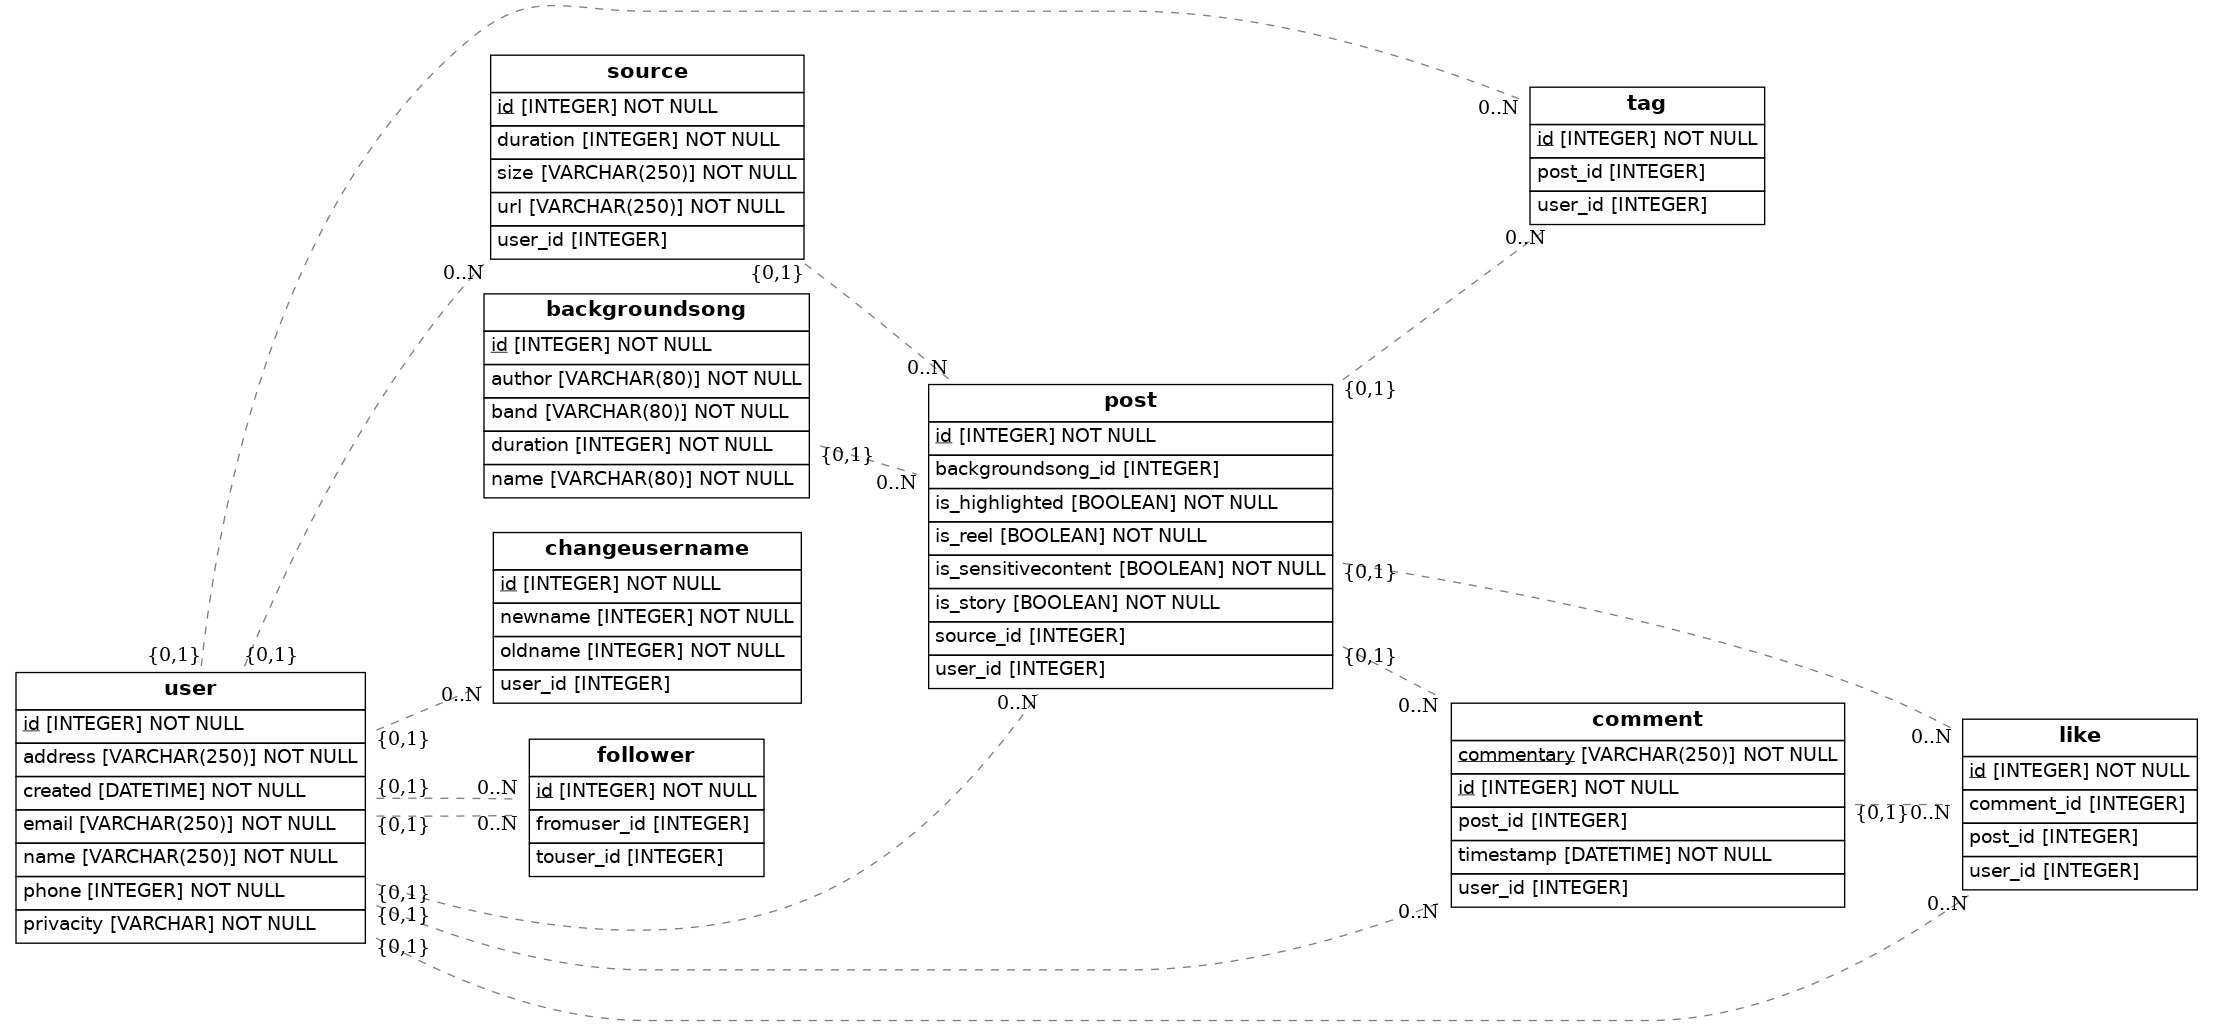
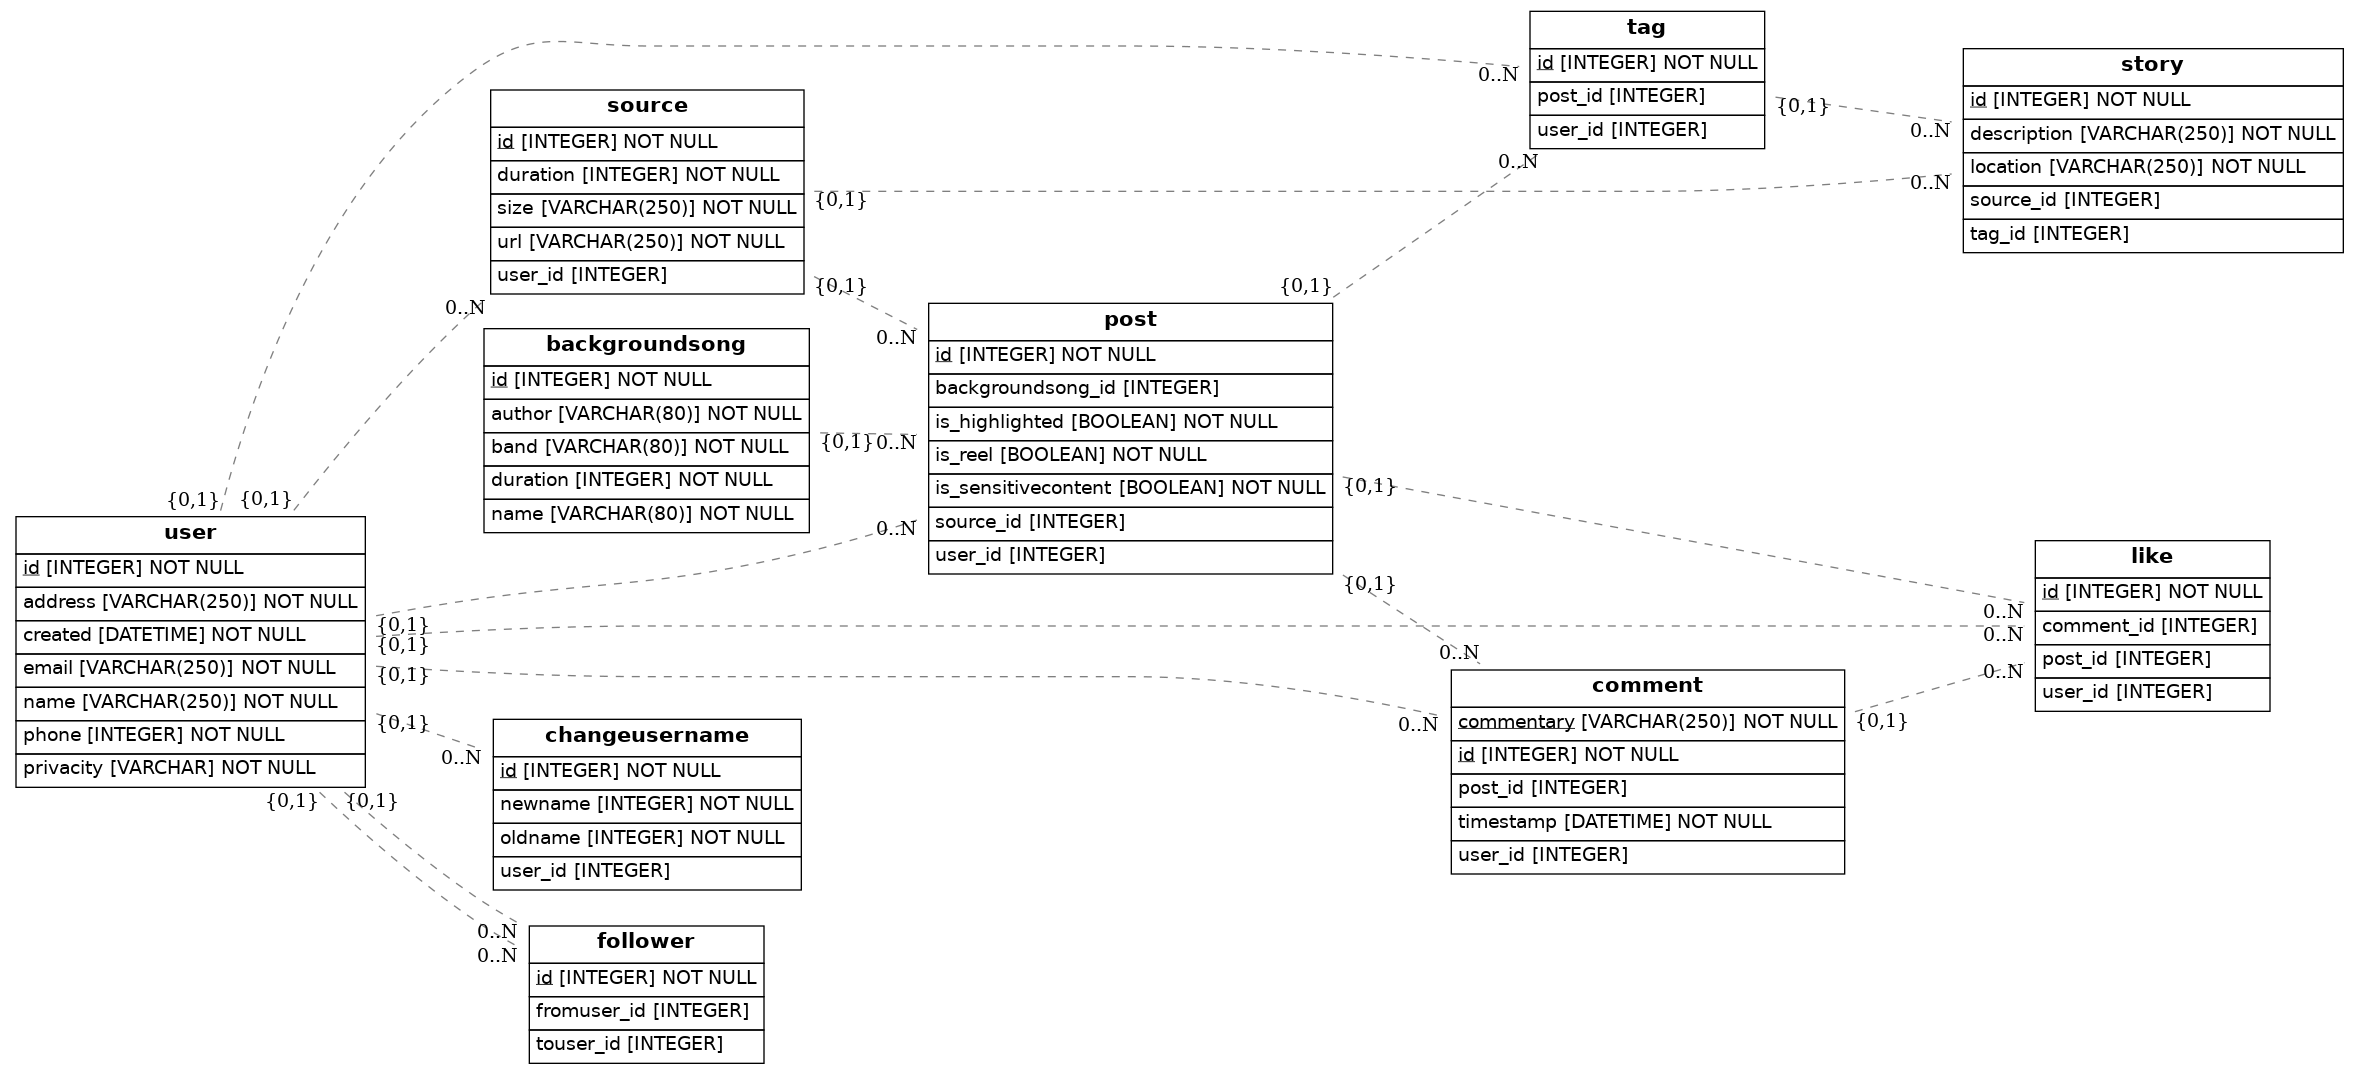
added story database

diff --git a/src/models.py b/src/models.py
@@ -26,7 +26,6 @@ class User(Base):
 class Post(Base):
     __tablename__ = 'post'        
     id = Column(Integer, primary_key=True)
-    is_story = Column(Boolean, nullable=False)
     is_reel = Column(Boolean,  nullable=False)
     is_sensitivecontent = Column(Boolean,  nullable=False)
     is_highlighted = Column(Boolean,  nullable=False)
@@ -45,7 +44,16 @@ class Source(Base):
     size = Column(String(250),nullable=False)
     duration = Column(Integer,nullable=False)
     posts = relationship('Post',backref='source',lazy=True)
+    stories = relationship('Story',backref='source',lazy=True)
 
+class Story(Base):
+    __tablename__ = 'story'
+    id = Column(Integer, primary_key=True)
+    location = Column(String(250), nullable=False)
+    description = Column(String(250),nullable=False)
+    tag_id = Column(Integer,ForeignKey('tag.id'))
+    source_id = Column(Integer,ForeignKey('source.id'))
+    
 class Backgroundsong(Base):
     __tablename__ = 'backgroundsong'        
     id = Column(Integer, primary_key=True)    
@@ -60,6 +68,7 @@ class Tag(Base):
     id = Column(Integer, primary_key=True)    
     user_id = Column(Integer,ForeignKey('user.id'))
     post_id = Column(Integer, ForeignKey('post.id'))
+    stories = relationship('Story',backref='tag',lazy=True)
 
 class ChangeUsername(Base):
     __tablename__ = 'changeusername'
